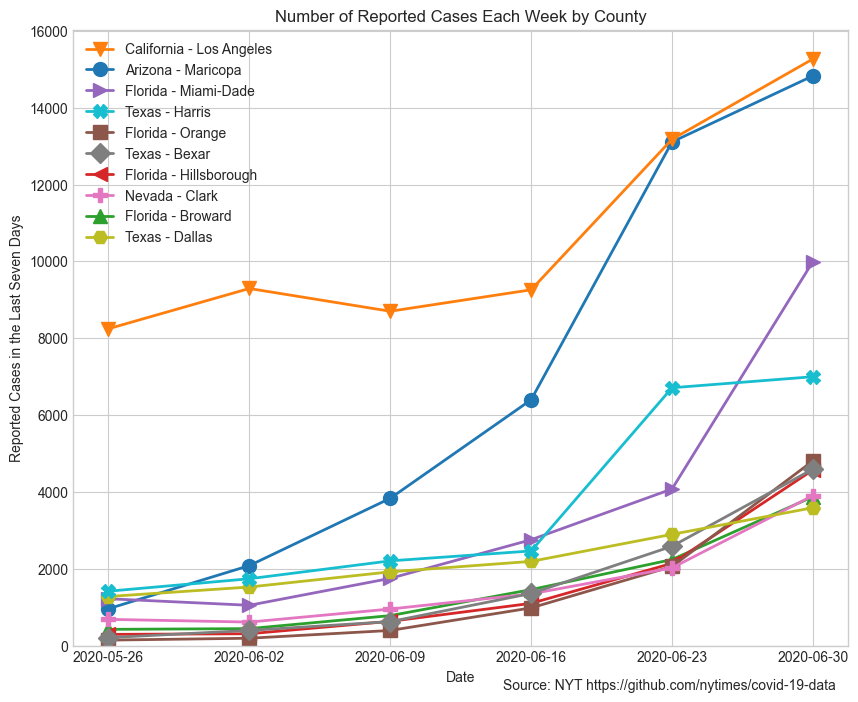
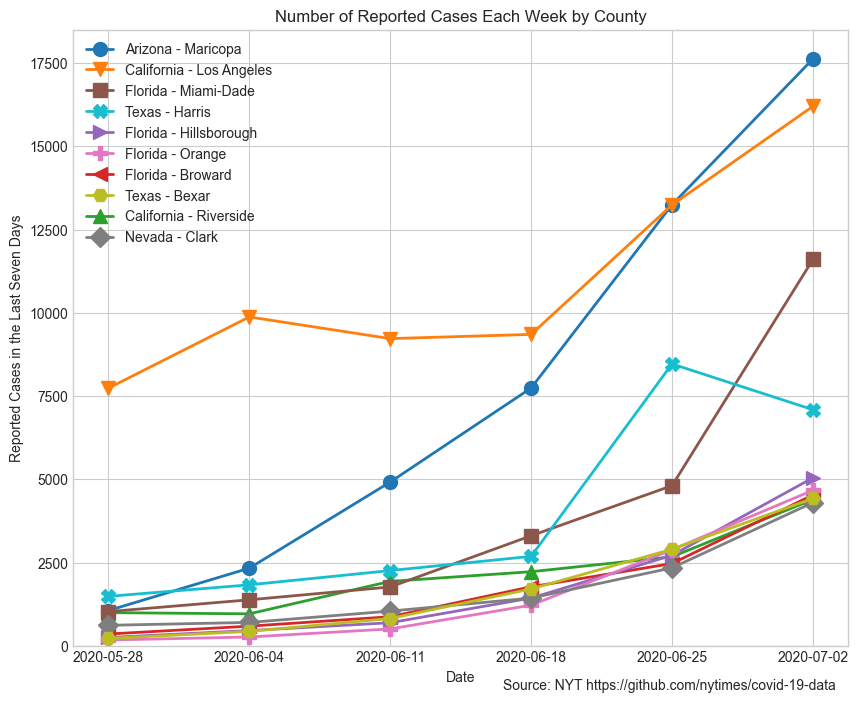
update with 7/2 data

diff --git a/README.md b/README.md
@@ -1,6 +1,6 @@
 # Coronavirus in the U.S.
 
-The plots below show the ten states and ten counties with the most reported cases of Covid-19 in the last seven days, as of June 30, 2020. 
+The plots below show the ten states and ten counties with the most reported cases of Covid-19 in the last seven days, as of July 2, 2020. 
 
 ## Reported cases by state
 
